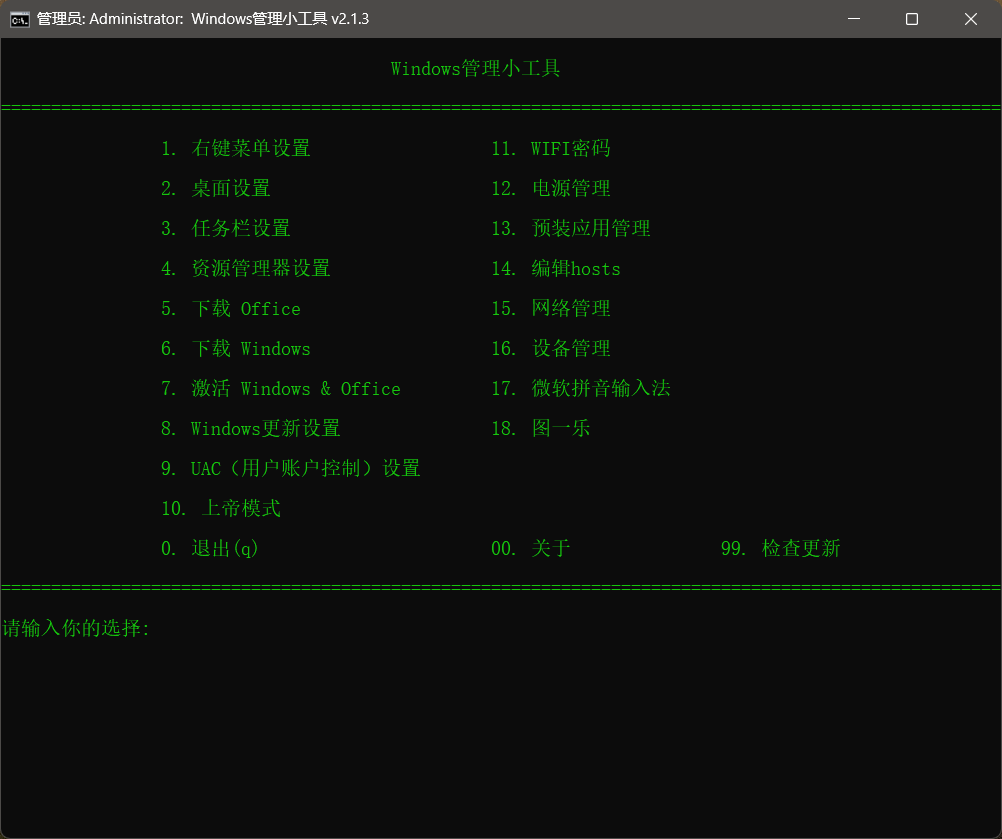
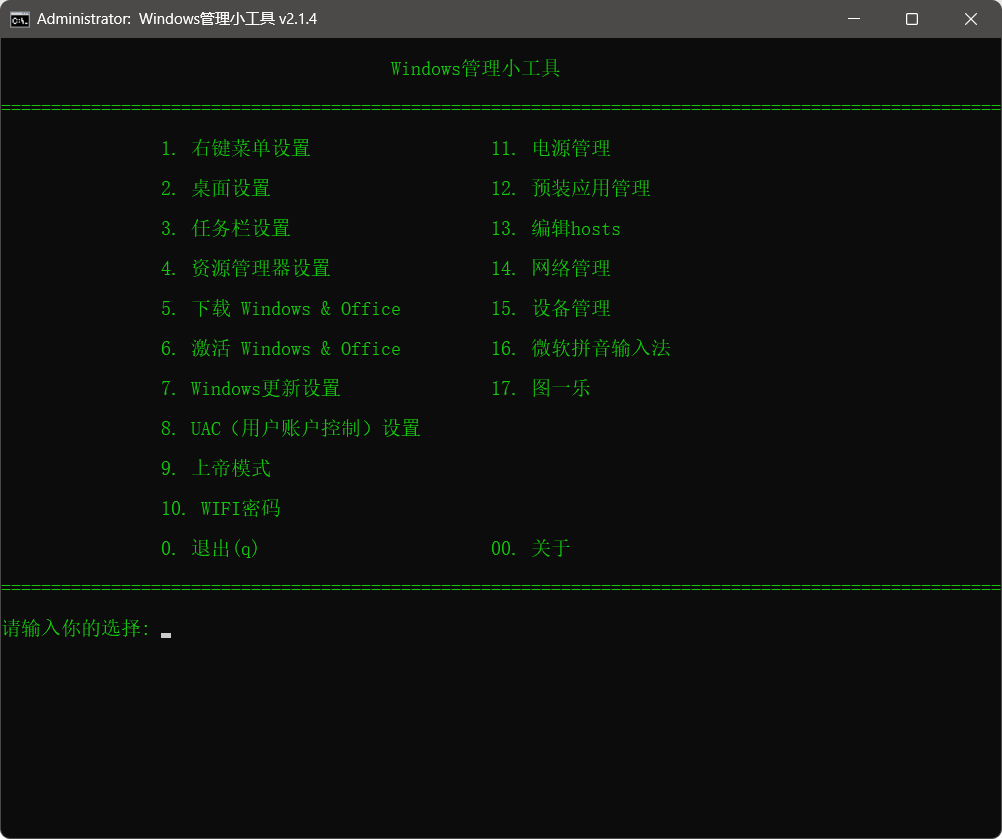
发布2.1.4版本

diff --git a/README.md b/README.md
@@ -10,20 +10,19 @@
 | 2        | 🖥 桌面设置                |
 | 3        | 📌 任务栏设置              |
 | 4        | 📂 资源管理器设置          |
-| 5        | 📦 下载 Office             |
-| 6        | 🪟 下载 Windows            |
-| 7        | ✅ 激活 Windows & Office   |
-| 8        | 🔄 Windows 更新设置        |
-| 9        | 🛡 UAC（用户账户控制）设置 |
-| 10       | 🧙 上帝模式启用            |
-| 11       | 📶 查看 WIFI 密码          |
-| 12       | 🔋 电源管理配置            |
-| 13       | 🧹 预装应用管理            |
-| 14       | ✏ 编辑hosts               |
-| 15       | 🖧  网络管理               |
-| 16       | 😄 图一乐                  |
-| 17       | ⌨ 微软拼音输入法          |
-| 99       | 🔄 检查更新                |
+| 5        | 🪟 下载 Windows & Office   |
+| 6        | ✅ 激活 Windows & Office   |
+| 7        | 🔄 Windows 更新设置        |
+| 8        | 🛡 UAC（用户账户控制）设置 |
+| 9        | 🧙 上帝模式启用            |
+| 10       | 📶 查看 WIFI 密码          |
+| 11       | 🔋 电源管理配置            |
+| 12       | 🧹 预装应用管理            |
+| 13       | ✏ 编辑hosts               |
+| 14       | 🖧  网络管理               |
+| 15       | 🛠  设备管理               |
+| 16       | ⌨ 微软拼音输入法          |
+| 17       | 😄 图一乐                  |
 | 00       | ℹ 关于                    |
 | 0 / q    | ❌ 退出程序                |
 
